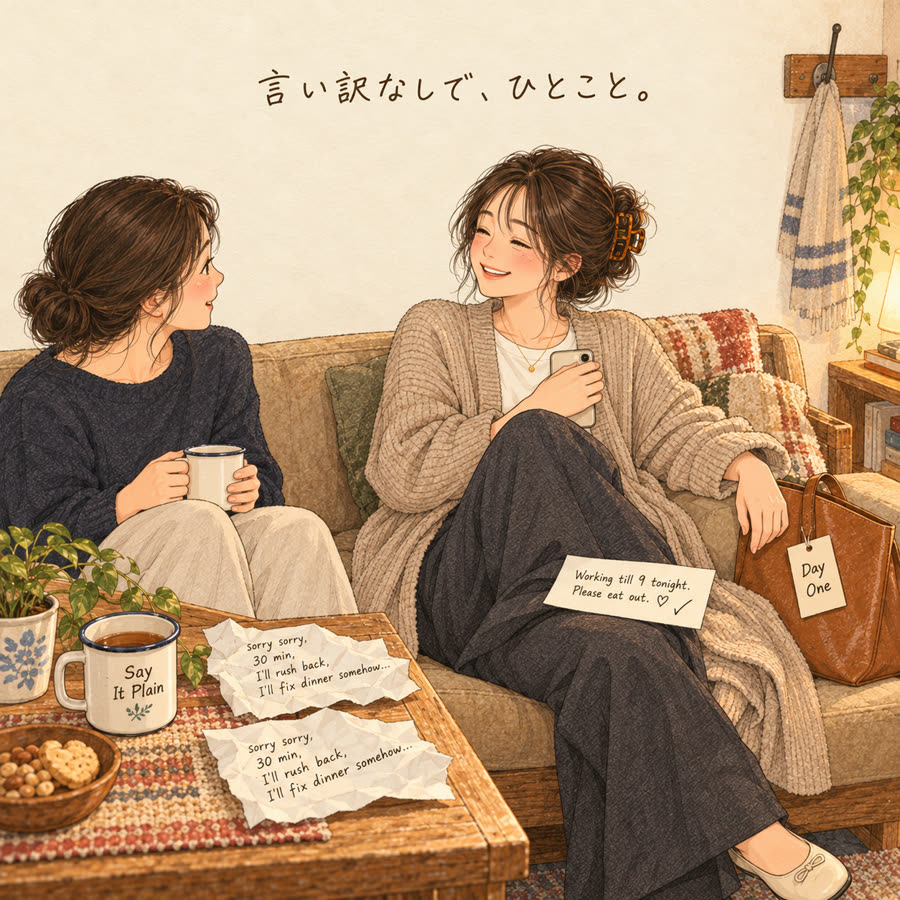
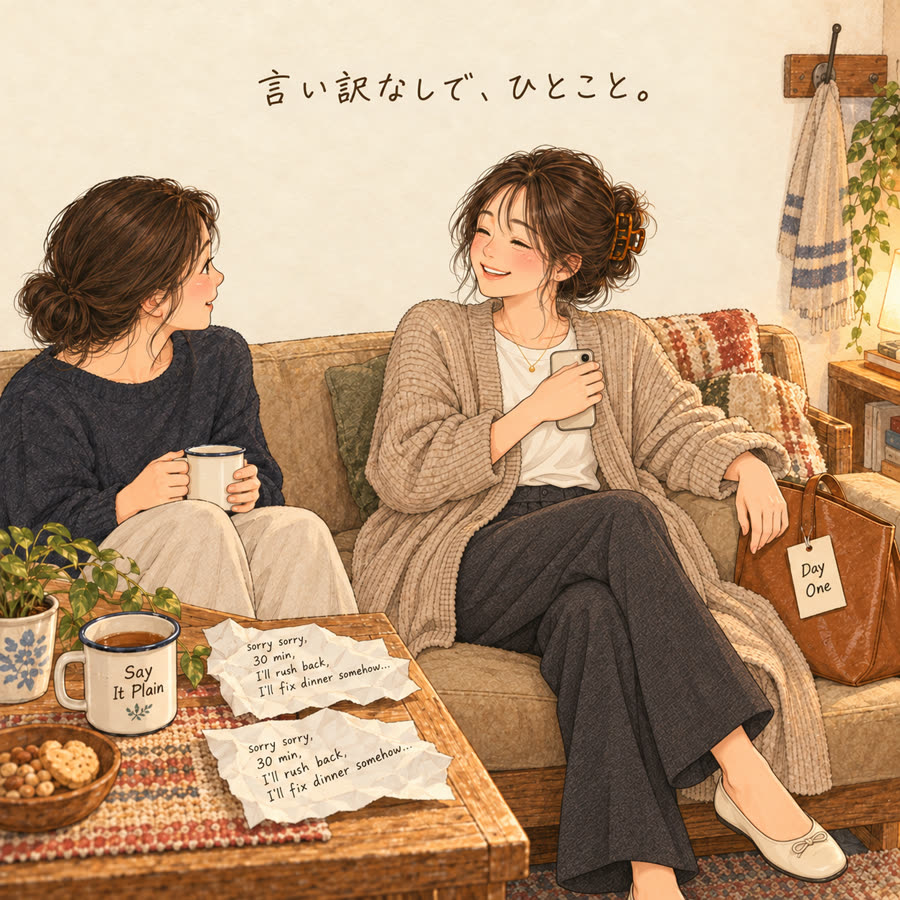
Swap in the corrected Capricorn relationships illustration

diff --git a/capricorn/pages/05-relationships.html b/capricorn/pages/05-relationships.html
@@ -29,7 +29,7 @@
 <main class="chapter-main">
 <article class="wrap prose">
 <aside class="chapter-quick has-illust" id="quick">
-  <figure class="quick-illust"><img src="../img/quick-05.jpg" alt="休憩室のソファで、丸めた言い訳メモの横に「今夜9時まで。先に食べて」と送った画面。マグ「Say It Plain」。「言い訳なしで、ひとこと。」" loading="lazy"></figure>
+  <figure class="quick-illust"><img src="../img/quick-05.jpg" alt="休憩室のソファで、机に丸めた言い訳メモを置いたまま、同僚に短く一言伝える女の子。マグ「Say It Plain」。「言い訳なしで、ひとこと。」" loading="lazy"></figure>
   <div class="chapter-quick__body">
   <p class="kicker">Start here</p>
   <p class="chapter-quick__lead">相手をその人のままにしておくと、自分も自由になる。</p>
